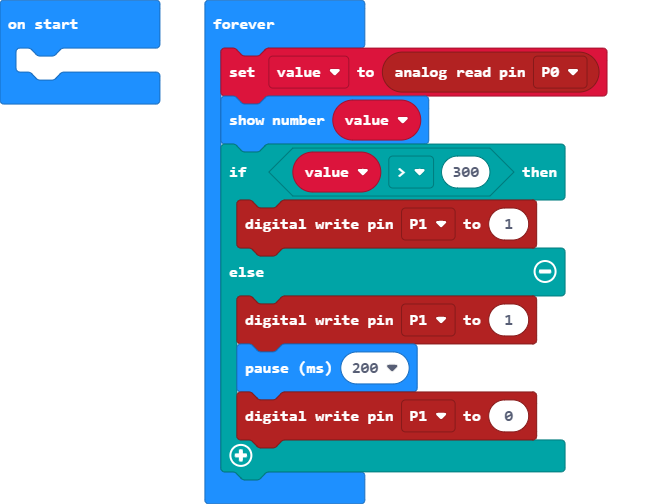
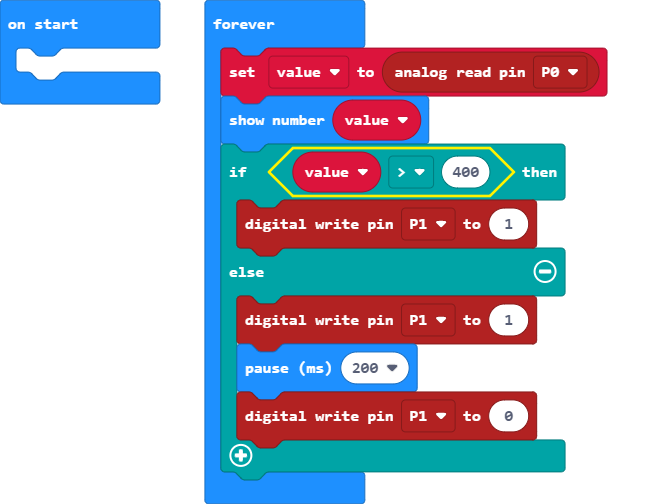
Update main.blocks, main.ts

diff --git a/main.ts b/main.ts
@@ -2,7 +2,7 @@ let value = 0
 basic.forever(function () {
     value = pins.analogReadPin(AnalogPin.P0)
     basic.showNumber(value)
-    if (value > 300) {
+    if (value > 400) {
         pins.digitalWritePin(DigitalPin.P1, 1)
     } else {
         pins.digitalWritePin(DigitalPin.P1, 1)
